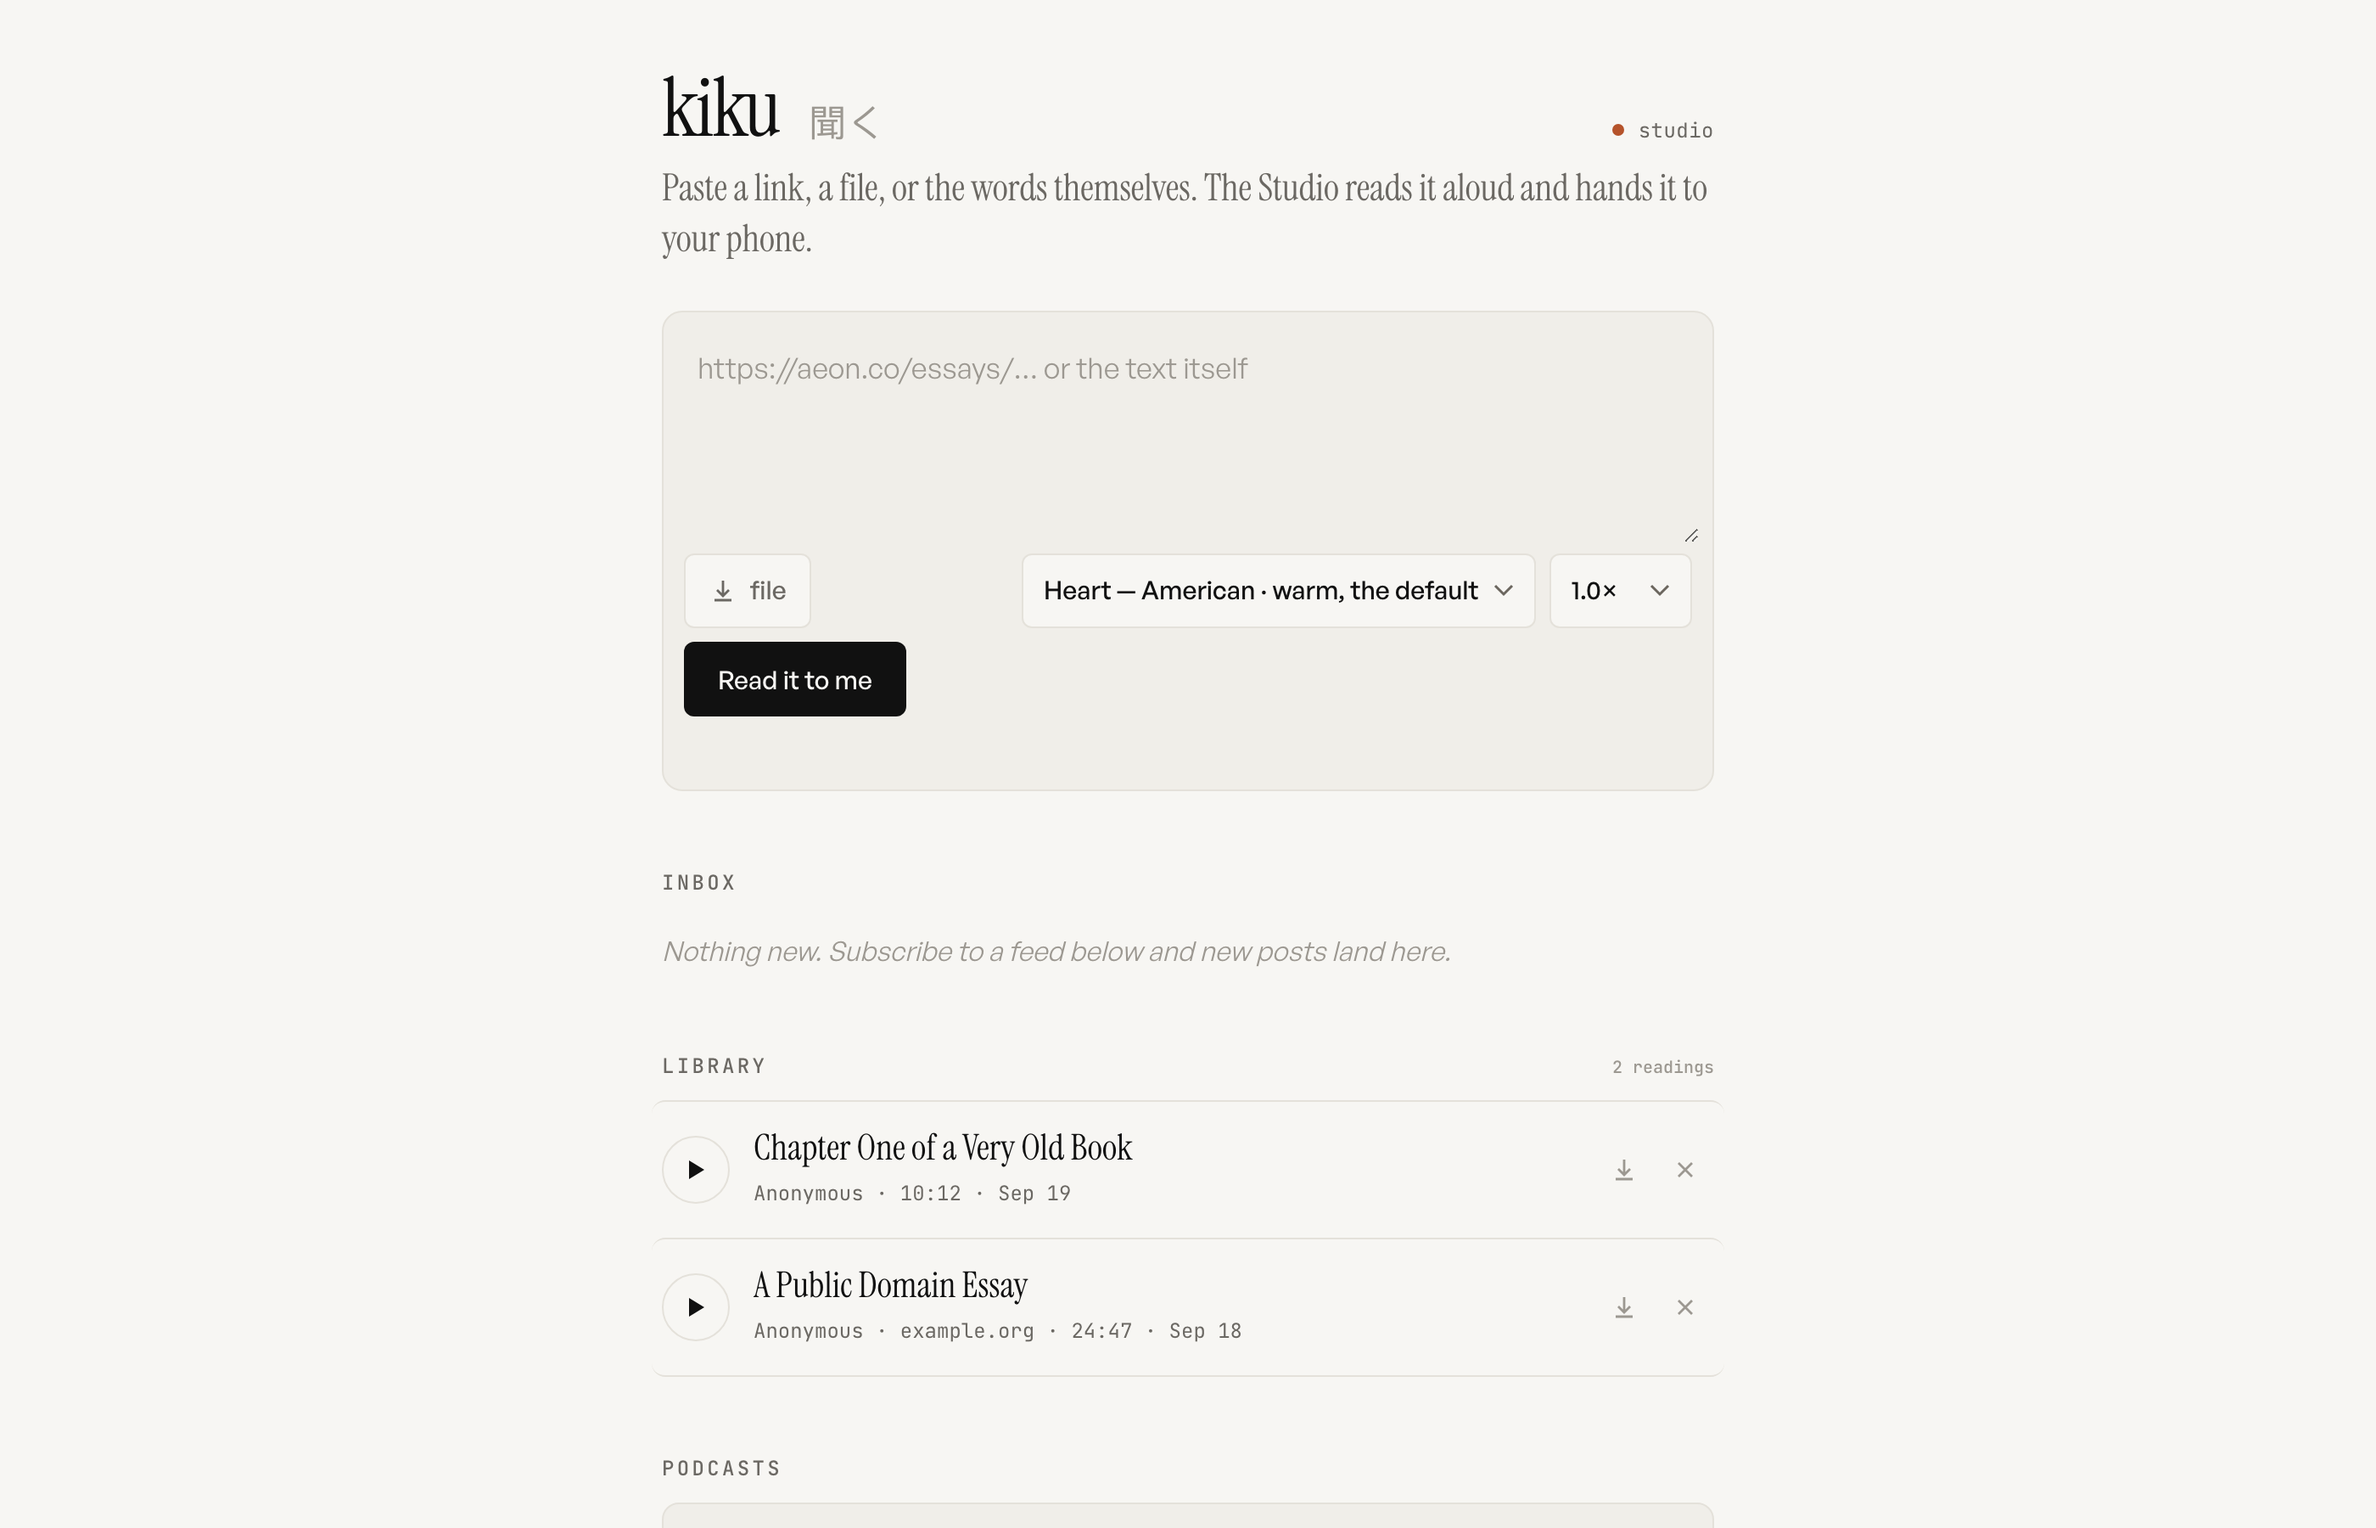
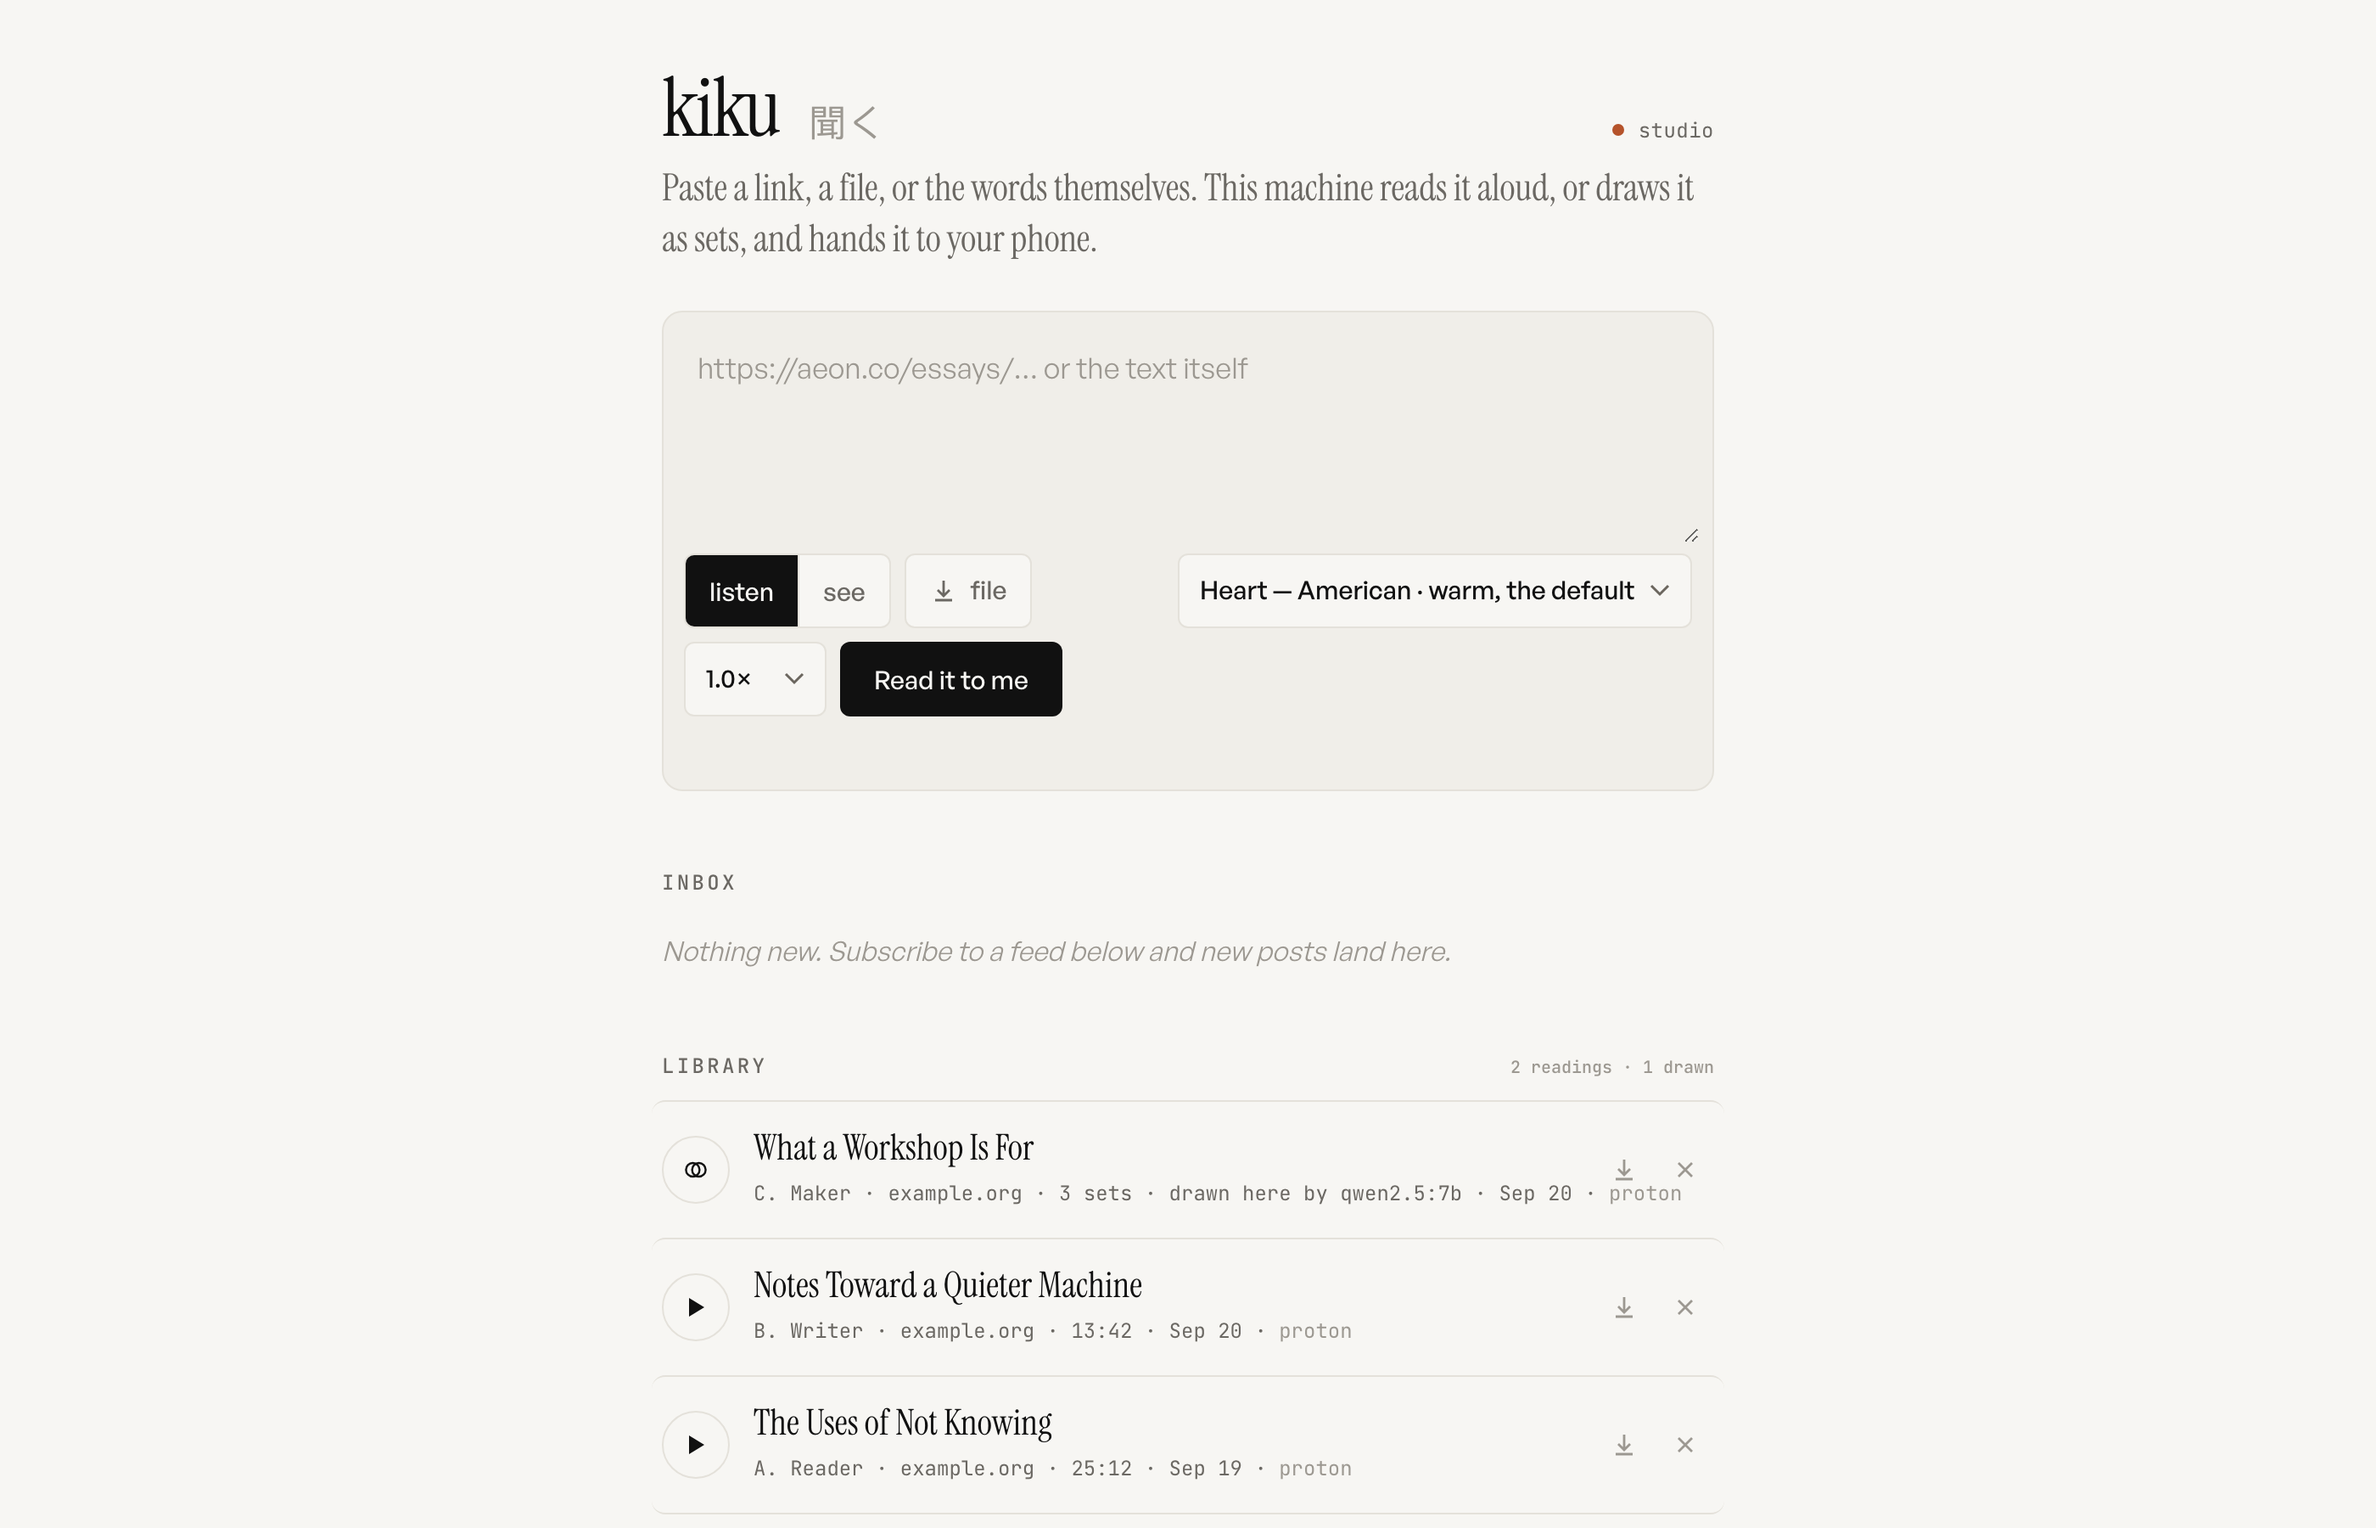
README screenshot from the synthetic instance: the listen / see choice and a drawn row
Rendered by bin/shot.mjs against a second kiku on :4749 with a temp
KIKU_HOME seeded with three synthetic entries and KIKU_EXPORT_DIR
pointed at a temp folder, never the real library or the real Proton
Drive. Alt text says what the page shows now.

diff --git a/README.md b/README.md
@@ -2,7 +2,7 @@
 
 Paste a link, a file, or the words themselves. Your Mac reads it aloud with Kokoro and hands the audio to your phone as a private podcast episode — or, if you ask to _see_ it instead, a local model reads it into three or five overlapping sets and draws them as one interactive page you can open anywhere. Either lands in your Proton Drive. Nothing leaves the machine: no API keys, no cloud voices, no cloud models, no font requests, no analytics. It runs at home and on a laptop with no network.
 
-![The kiku page: a compose box for a link, a file or pasted text with a voice and speed picker, an empty Inbox, and a Library listing two readings with play buttons](docs/img/kiku.png)
+![The kiku page: a compose box for a link, a file or pasted text with a listen / see choice and a voice and speed picker, an empty Inbox, and a Library listing two readings with play buttons and one drawing that opens as a page](docs/img/kiku.png)
 
 ## What it reads and writes
 
